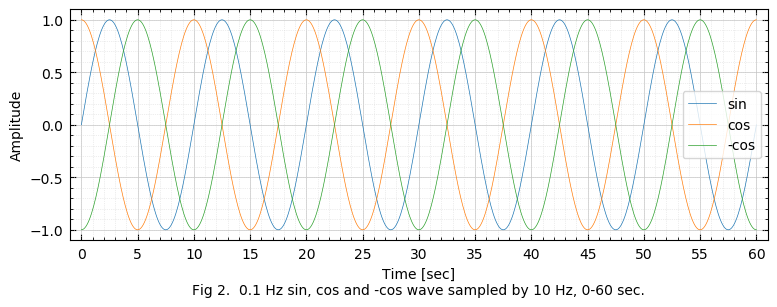
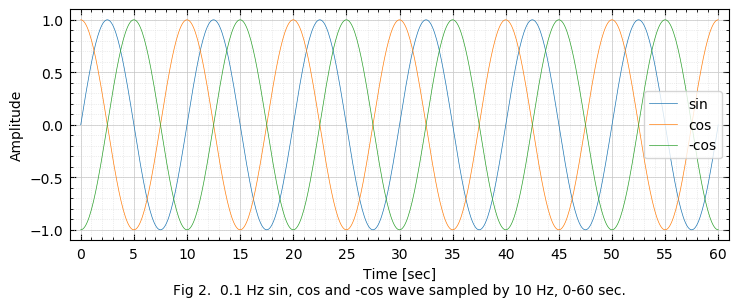
fix

diff --git a/c2py_examples_Ver00.00_00/pyFunctions.py b/c2py_examples_Ver00.00_00/pyFunctions.py
@@ -30,7 +30,7 @@ import matplotlib.pyplot as plt # "QXcbConnection: Could not connect to display"
 import matplotlib.ticker as tick
 def vec2graph(writeName, vecX, vecY):
     plt.clf()
-    fig = plt.figure(figsize=(9, 3)) # アスペクト比の設定
+    fig = plt.figure(figsize=(8.5, 3)) # アスペクト比の設定
     ax1 = fig.add_subplot(111)
     ax1.plot(vecX, vecY, color='k', linewidth=0.5)
     
@@ -63,14 +63,14 @@ def vec2graph(writeName, vecX, vecY):
 
 def vvec2graph(writeName, vLabel, vvecX, vvecY):
     plt.clf()
-    fig = plt.figure(figsize=(9, 3)) # アスペクト比の設定
+    fig = plt.figure(figsize=(8.5, 3)) # アスペクト比の設定
     ax1 = fig.add_subplot(111)
     #cmap = plt.get_cmap("tab10")
     vColor=['black', 'blue', 'red']
     vLineStyle = ['solid', 'solid', 'solid'] # solid, dashed, dashdot, dotted
     for i in range(len(vvecX)):
-        ax1.plot(vvecX[i], vvecY[i], linewidth=0.5, color=vColor[i], linestyle=vLineStyle[i], label=vLabel[i])
         #ax1.plot(vvecX[i], vvecY[i], linewidth=0.5, color=cmap(i), linestyle=vLineStyle[i], label=vLabel[i])
+        ax1.plot(vvecX[i], vvecY[i], linewidth=0.5, color=vColor[i], linestyle=vLineStyle[i], label=vLabel[i])
     ax1.legend(loc='upper right')
     
     ax1.grid(which='minor', linewidth=0.5, linestyle=':',  color='gainsboro')
